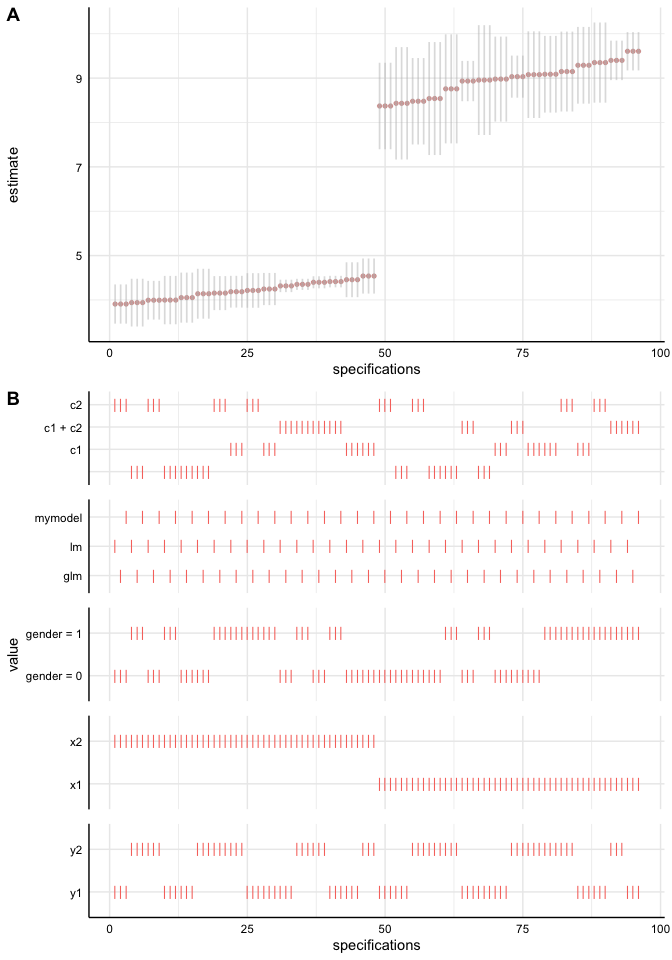
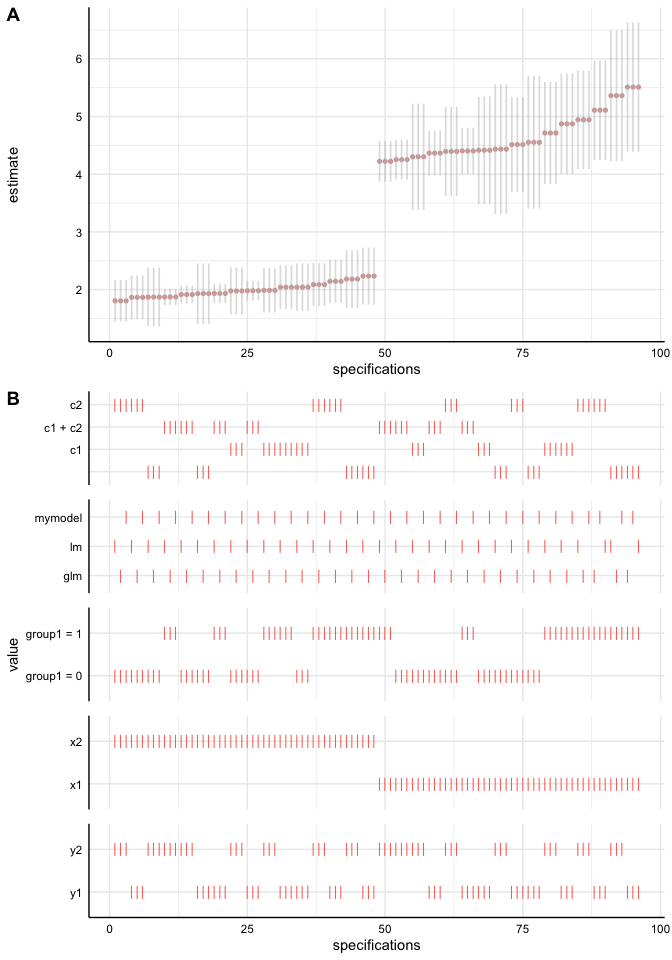
Small change to fit with updated simulated data.

diff --git a/README.md b/README.md
@@ -35,13 +35,13 @@ package. In a first step, check the data (here a simulated data set).
 library(specr)
 d <- example_data
 head(d)
-#>          x1        x2          c1       c2 gender       y1       y2
-#> 1 3.5835162 6.7585730 -0.08479593 1.046597      0 26.73193 28.45278
-#> 2 1.5918187 3.9296317  6.37908937 2.974318      1 41.77180 42.09489
-#> 3 0.4962778 0.5390142  3.03729593 3.941277      0 18.10251 18.67046
-#> 4 0.5755038 2.1816832  5.26185866 2.083192      1 25.81769 25.09875
-#> 5 1.7683538 3.1776625  1.62403890 1.054171      0 19.84352 18.74082
-#> 6 2.3275039 5.6656614  4.34043420 2.218534      1 42.13992 42.14452
+#>         x1       x2        c1       c2       y1       y2 group1 group2
+#> 1 1.942902 4.104683 0.5941764 3.700289 16.11449 16.04155      0      A
+#> 2 2.512857 3.675712 4.1336440 2.378237 22.75160 22.79317      1      C
+#> 3 3.053931 7.995717 2.0264256 5.254413 32.75778 36.06999      0      C
+#> 4 2.279223 4.451733 3.3688941 3.220657 28.80391 21.77937      1      A
+#> 5 3.599990 6.274502 3.6629448 2.955270 31.78923 32.05191      0      A
+#> 6 2.762323 5.180676 1.5159513 3.132042 14.83215 21.36287      1      C
 ```
 
 In a second step, we only need to use the function `run_specs()` and
@@ -60,18 +60,18 @@ results <- run_specs(df = d,
                      x = c("x1", "x2"), 
                      model = c("lm", "glm", "mymodel"), 
                      controls = c("c1", "c2"), 
-                     subset = list(gender = unique(d$gender)))
+                     subset = list(group1 = unique(d$group1)))
 # Check results
 head(results)
 #> # A tibble: 6 x 9
-#>   x     y     model controls estimate std.error statistic   p.value subset 
-#>   <chr> <chr> <chr> <chr>       <dbl>     <dbl>     <dbl>     <dbl> <chr>  
-#> 1 x1    y1    lm    c1 + c2      8.93    0.232       38.5 3.14e-106 gender…
-#> 2 x2    y1    lm    c1 + c2      4.32    0.0716      60.3 2.40e-149 gender…
-#> 3 x1    y2    lm    c1 + c2      9.03    0.242       37.3 2.67e-103 gender…
-#> 4 x2    y2    lm    c1 + c2      4.40    0.0694      63.3 2.67e-154 gender…
-#> 5 x1    y1    glm   c1 + c2      8.93    0.232       38.5 3.14e-106 gender…
-#> 6 x2    y1    glm   c1 + c2      4.32    0.0716      60.3 2.40e-149 gender…
+#>   x     y     model controls estimate std.error statistic  p.value subset  
+#>   <chr> <chr> <chr> <chr>       <dbl>     <dbl>     <dbl>    <dbl> <chr>   
+#> 1 x1    y1    lm    c1 + c2      4.37    0.199       22.0 6.45e-60 group1 …
+#> 2 x2    y1    lm    c1 + c2      1.98    0.0871      22.8 1.90e-62 group1 …
+#> 3 x1    y2    lm    c1 + c2      4.25    0.176       24.1 1.08e-66 group1 …
+#> 4 x2    y2    lm    c1 + c2      1.91    0.0784      24.4 1.15e-67 group1 …
+#> 5 x1    y1    glm   c1 + c2      4.37    0.199       22.0 6.45e-60 group1 …
+#> 6 x2    y1    glm   c1 + c2      1.98    0.0871      22.8 1.90e-62 group1 …
 ```
 
 In a final step, we can use the function `plot_specs()` to produce a
